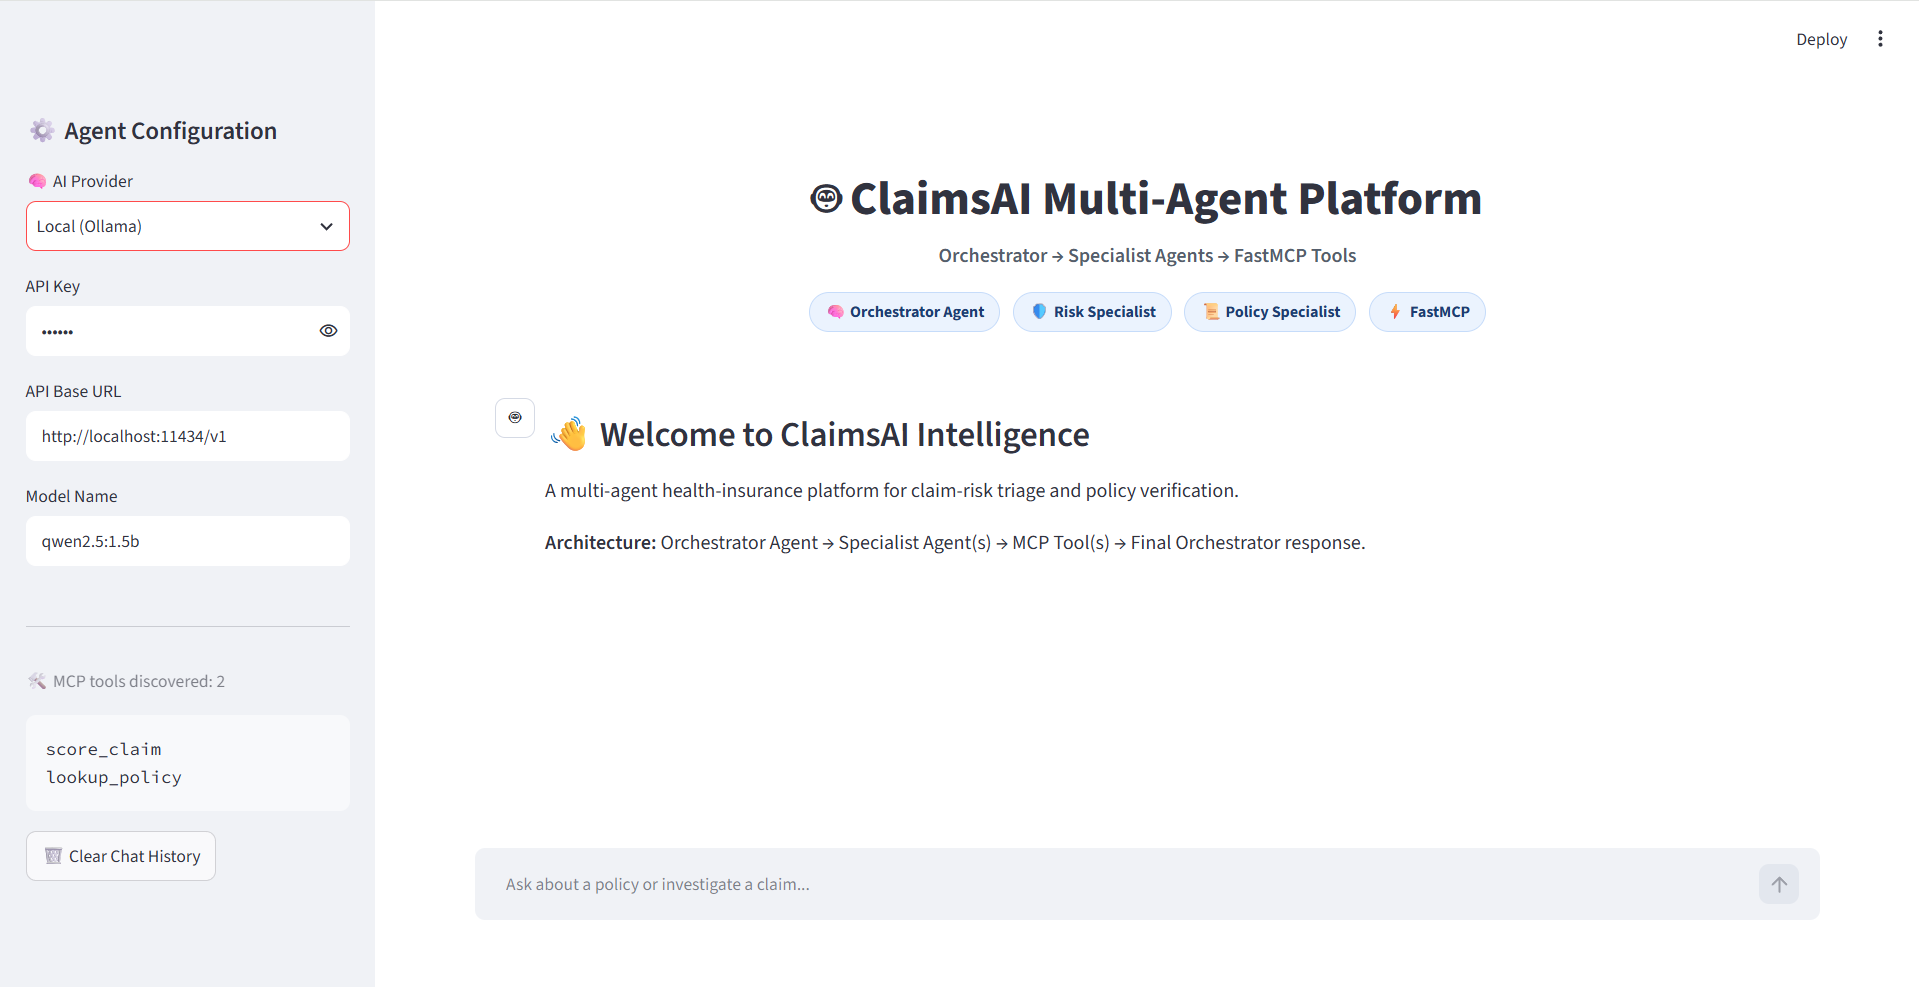
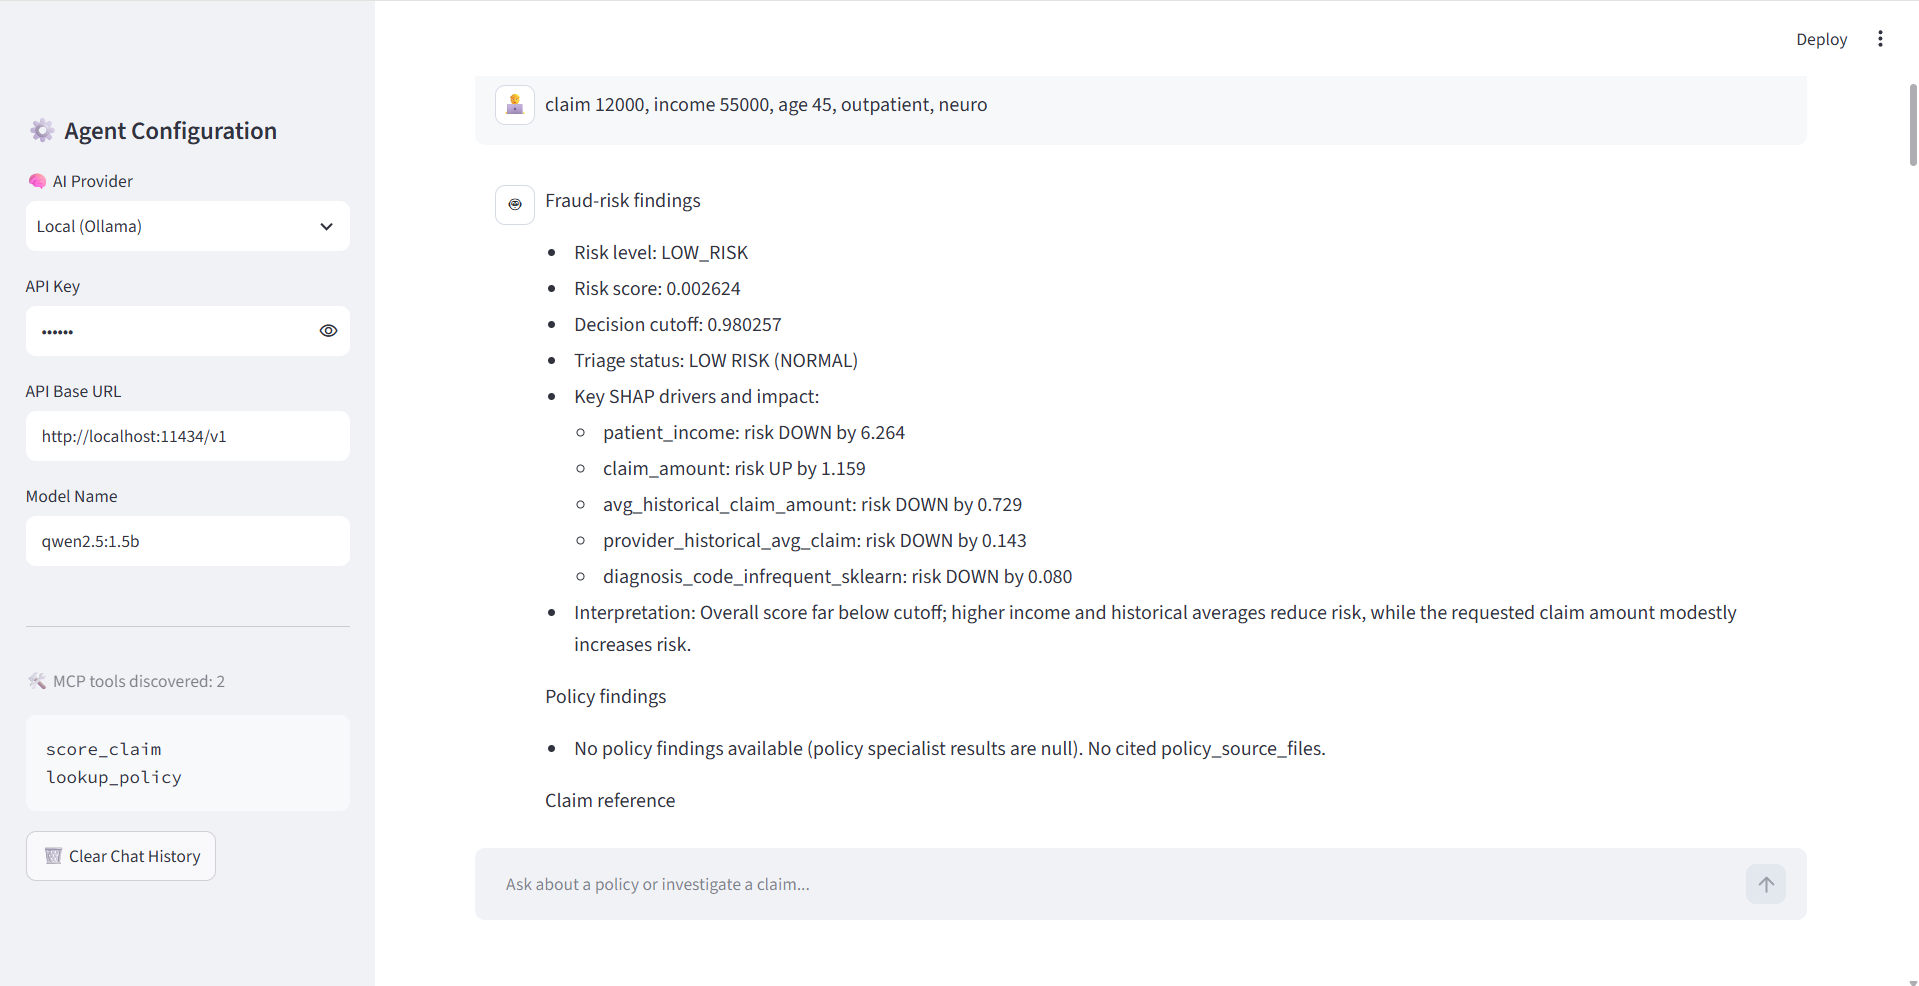
Added demo screenshots to README.md

diff --git a/app_chat.py b/app_chat.py
@@ -276,7 +276,7 @@ Rules:
 - State when evidence is unavailable or a specialist encountered an error.
 - Do not expose internal agent/tool routing details unless useful for transparency.
 - Do not ask follow-up questions unless the user explicitly asks for an interactive workflow.
-- Keep it brief.
+- Keep it brief, write in well formatted markdown.
 """
 
 
